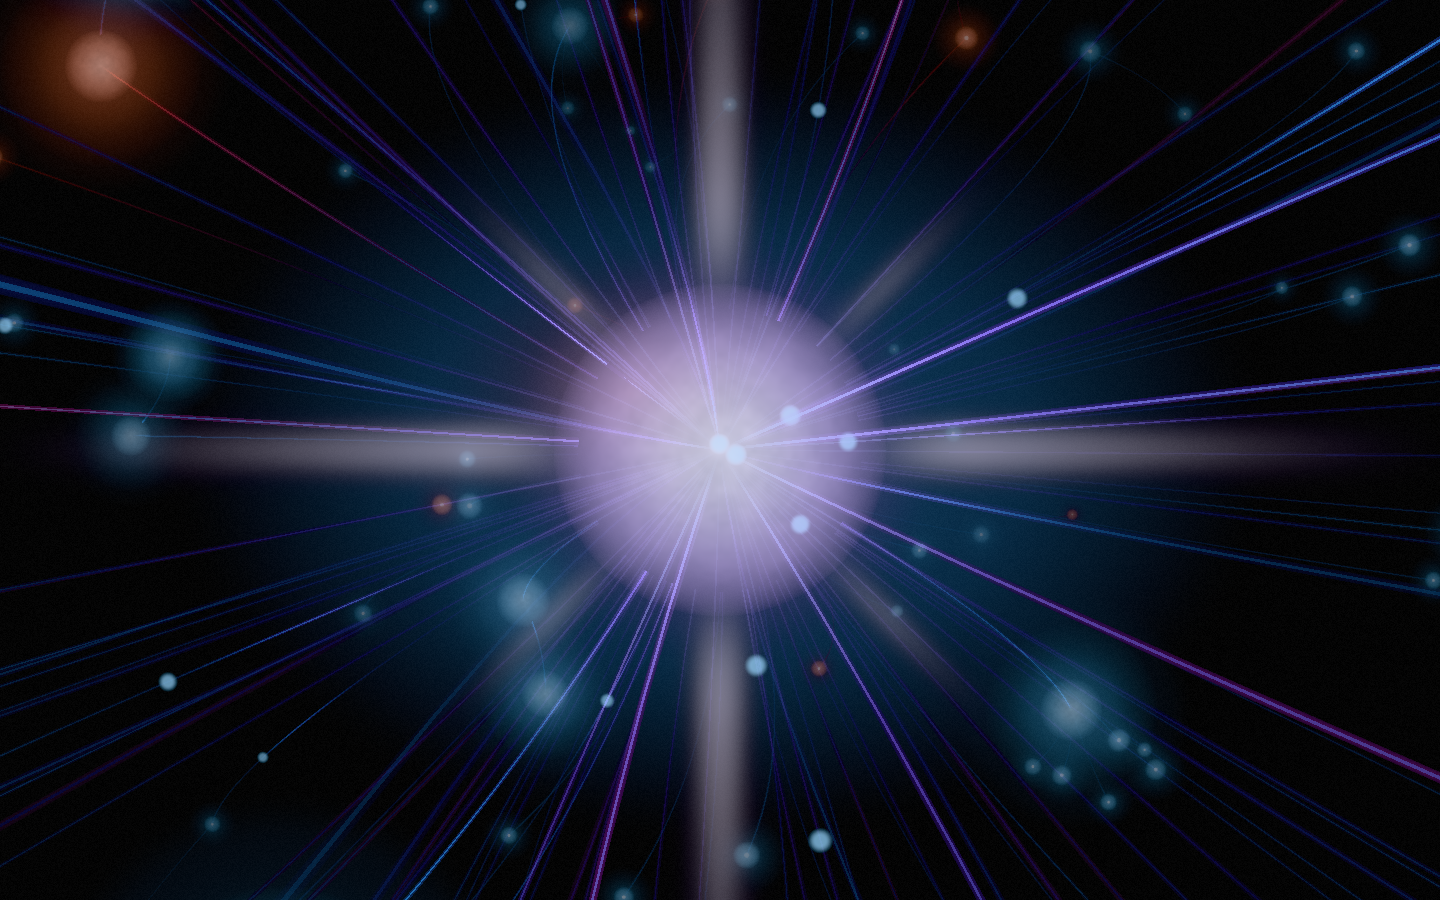
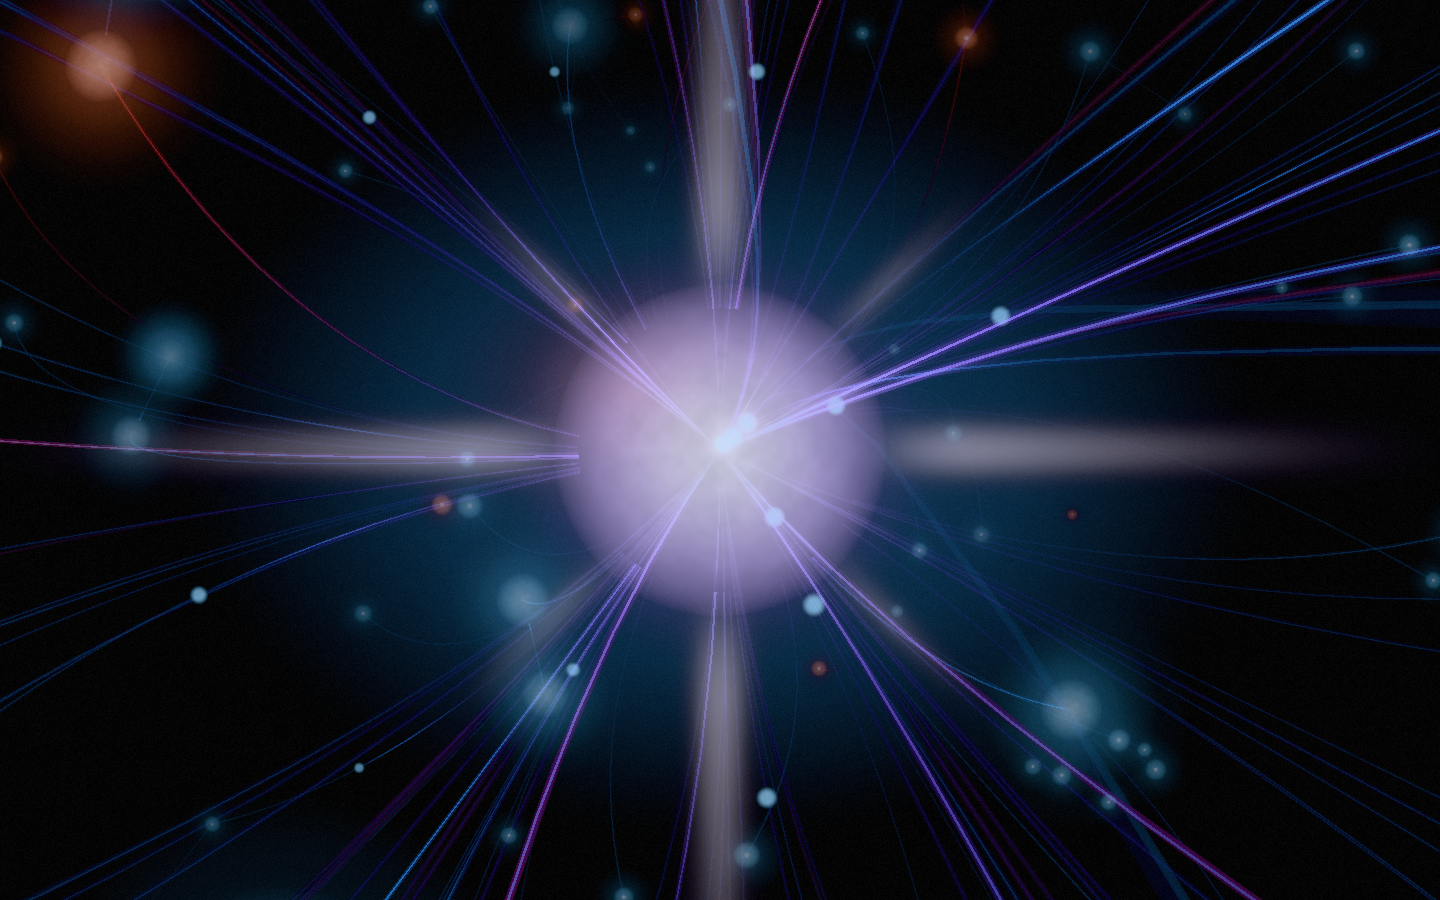
Neural scene: trunk grouping - spokes leave a parent as trunks
User direction 2026-09-21, moved ahead of the rest of the review because
of the scale question: at thousands of shouts the spokes, not occlusion,
fill the centre. Each parent's children are clustered by direction into
trunks (greedy within bundleCone, one refinement pass; deterministic, the
layout hash holds) and each spoke's control point is pulled by
bundleStrength onto its trunk's ray at bundleBranch of the child's
distance, so siblings leave the parent along one line and peel off toward
their children - a trunk that splits, not a firework. Strength 0 is the
individual bend. Endpoints, one trail per node, the momentum band, the
body fade and the pulses are unchanged.

Decisions in docs/DECISIONS.md ("Trunk grouping"), log in
docs/PORT_LOG.md. Tests 263 (+4); tsc + oxlint clean; verify-neural 7/7
(60 fps, white-clip 0.00%, 7x median 13.2/255); gate shots refreshed.

diff --git a/src/neural/trails.ts b/src/neural/trails.ts
@@ -53,6 +53,61 @@ const UP = new Vector3(0, 1, 0)
 const FALLBACK = new Vector3(1, 0, 0)
 
 /**
+ * Trunk grouping: cluster unit directions into trunks. Greedy in input
+ * order - each direction joins the trunk whose running mean lies within
+ * `coneDeg` of it (the closest such), else starts one - then one refinement
+ * pass re-assigns every direction to its nearest final mean and re-means.
+ * Deterministic: the same input gives the same trunks, so the layout hash
+ * holds. Returns each direction's trunk and the trunks' unit means.
+ */
+export function clusterDirections(
+  dirs: readonly Vector3[],
+  coneDeg: number,
+): { assignment: number[]; means: Vector3[] } {
+  const cosCone = Math.cos((coneDeg * Math.PI) / 180)
+  const means: Vector3[] = []
+  const sums: Vector3[] = []
+  const assignment: number[] = []
+  for (const d of dirs) {
+    let best = -1
+    let bestDot = cosCone
+    for (let t = 0; t < means.length; t++) {
+      const dot = means[t].dot(d)
+      if (dot >= bestDot) {
+        bestDot = dot
+        best = t
+      }
+    }
+    if (best < 0) {
+      best = means.length
+      means.push(d.clone())
+      sums.push(new Vector3())
+    }
+    sums[best].add(d)
+    means[best].copy(sums[best]).normalize()
+    assignment.push(best)
+  }
+  const refined = means.map(() => new Vector3())
+  for (let i = 0; i < dirs.length; i++) {
+    let best = assignment[i]
+    let bestDot = -2
+    for (let t = 0; t < means.length; t++) {
+      const dot = means[t].dot(dirs[i])
+      if (dot > bestDot) {
+        bestDot = dot
+        best = t
+      }
+    }
+    assignment[i] = best
+    refined[best].add(dirs[i])
+  }
+  for (let t = 0; t < means.length; t++) {
+    if (refined[t].lengthSq() > 1e-9) means[t].copy(refined[t]).normalize()
+  }
+  return { assignment, means }
+}
+
+/**
  * Pure geometry plan for every trail - exactly one per non-brain node.
  * `diamOf` gives each node's sprite diameter so trails end on the disc
  * surface; sizes are the rallies channel now, so the default (tier table) is
@@ -68,6 +123,25 @@ export function buildTrailSpecs(
   const byName = new Map(nodes.map((n) => [n.name, n]))
   const positions = new Map(nodes.map((n) => [n.name, new Vector3(...nodePosition(n))]))
   const specs: TrailSpec[] = []
+
+  // Trunk grouping (trail.bundle*): each parent's children, clustered by
+  // direction, give every child the unit direction of its trunk.
+  const trunks = new Map<string, Vector3>()
+  if (cfg.trail.bundleStrength > 0) {
+    const children = new Map<string, NeuralNode[]>()
+    for (const n of nodes) {
+      if (!n.parentName || !byName.has(n.parentName)) continue
+      const list = children.get(n.parentName) ?? []
+      list.push(n)
+      children.set(n.parentName, list)
+    }
+    for (const [parentName, kids] of children) {
+      const pPos = positions.get(parentName) as Vector3
+      const dirs = kids.map((k) => (positions.get(k.name) as Vector3).clone().sub(pPos).normalize())
+      const { assignment, means } = clusterDirections(dirs, cfg.trail.bundleCone)
+      kids.forEach((k, i) => trunks.set(k.name, means[assignment[i]]))
+    }
+  }
 
   for (const n of nodes) {
     if (!n.parentName) continue
@@ -95,6 +169,14 @@ export function buildTrailSpecs(
     if (perp.lengthSq() < 0.01) perp.crossVectors(chord, FALLBACK).normalize()
     const sign = Math.sin(n.phi * 7.3 + n.theta) > 0 ? 1 : -1
     const ctrl = mid.addScaledVector(perp, chordLen * cfg.trail.bendFraction * sign)
+    // Trunk grouping: the control point pulled onto the trunk's ray at
+    // bundleBranch of the child's distance, so the quadratic leaves the
+    // parent along the trunk (every sibling in the trunk shares that
+    // tangent, and near the parent the same line) and peels off toward the
+    // child. A trunk of one puts the control on its own chord: a straight
+    // string. Strength 0 keeps the individual bend above.
+    const trunkDir = trunks.get(n.name)
+    if (trunkDir) ctrl.lerp(pPos.clone().addScaledVector(trunkDir, cfg.trail.bundleBranch * dist), cfg.trail.bundleStrength)
 
     // traction weight: a popular post's spoke is full; a minor one a hairline.
     // Quadratic in t so the median post (t ~ 0.2) sits near the floor.

diff --git a/tests/trails.test.ts b/tests/trails.test.ts
@@ -5,6 +5,7 @@ import { buildGraph, nodePosition } from '../src/neural/graph'
 import { PAL, TRAIL_BASE, TRAIL_HOT } from '../src/neural/palette'
 import {
   buildTrailSpecs,
+  clusterDirections,
   coreColorAt,
   glowColorAt,
   taperRadius,
@@ -63,10 +64,11 @@ describe('trail topology (P3 machine gate)', () => {
     }
   })
 
-  it('bend sign is deterministic from the child φ/θ', () => {
+  it('bend sign is deterministic from the child φ/θ (the individual bend: bundling off)', () => {
     const byName = new Map(nodes.map((n) => [n.name, n]))
     const UP = new Vector3(0, 1, 0)
-    for (const s of specs.slice(0, 60)) {
+    const unbundled = buildTrailSpecs(nodes, { ...NCONF, trail: { ...NCONF.trail, bundleStrength: 0 } })
+    for (const s of unbundled.slice(0, 60)) {
       const child = byName.get(s.childName)
       if (!child) throw new Error('missing child')
       const expected = Math.sin(child.phi * 7.3 + child.theta) > 0 ? 1 : -1
@@ -121,5 +123,51 @@ describe('vertex color program (§4.3, exact)', () => {
     expect(g.r).toBeCloseTo(expected.r, 9)
     expect(g.g).toBeCloseTo(expected.g, 9)
     expect(g.b).toBeCloseTo(expected.b, 9)
+  })
+})
+
+describe('trunk grouping (2026-09-21): spokes leave a parent as trunks', () => {
+  const byName = new Map(nodes.map((n) => [n.name, n]))
+  const pos = (name: string) => new Vector3(...nodePosition(byName.get(name)!))
+  const tangent = (s: { ctrl: Vector3; pSurf: Vector3 }) => s.ctrl.clone().sub(s.pSurf).normalize()
+  const withStrength = (bundleStrength: number) =>
+    buildTrailSpecs(nodes, { ...NCONF, trail: { ...NCONF.trail, bundleStrength } })
+
+  it('clusterDirections: within the cone share a trunk, outside it start one; deterministic', () => {
+    const d = (deg: number) => new Vector3(Math.cos((deg * Math.PI) / 180), Math.sin((deg * Math.PI) / 180), 0)
+    const dirs = [d(0), d(10), d(-12), d(90), d(100), d(200)]
+    const a = clusterDirections(dirs, 40)
+    expect(a.assignment).toEqual([0, 0, 0, 1, 1, 2])
+    expect(a.means).toHaveLength(3)
+    expect(a.means[0].angleTo(d(-0.67))).toBeLessThan(0.01) // the mean of 0, 10, -12
+    expect(clusterDirections(dirs, 40).assignment).toEqual(a.assignment)
+  })
+
+  it('at strength 1 the brain\'s spokes leave along a few shared rays, each within its own cone', () => {
+    const hubSpokes = withStrength(1).filter((s) => s.parentTier === 'brain')
+    expect(hubSpokes.length).toBeGreaterThan(20)
+    const rays = new Set(hubSpokes.map((s) => tangent(s).toArray().map((v) => v.toFixed(4)).join(',')))
+    expect(rays.size).toBeLessThan(hubSpokes.length / 2)
+    for (const s of hubSpokes) {
+      const own = s.cSurf.clone().sub(s.pSurf).normalize()
+      expect(tangent(s).angleTo(own)).toBeLessThan((NCONF.trail.bundleCone * 1.5 * Math.PI) / 180)
+    }
+  })
+
+  it('strength 0 is the individual bend; the default control lies between it and the trunk ray', () => {
+    const off = withStrength(0)
+    const full = withStrength(1)
+    for (let i = 0; i < 40; i++) {
+      const expected = off[i].ctrl.clone().lerp(full[i].ctrl, NCONF.trail.bundleStrength)
+      expect(specs[i].ctrl.distanceTo(expected)).toBeLessThan(1e-6)
+    }
+  })
+
+  it('endpoints and the one-trail-per-node topology are untouched by bundling', () => {
+    for (const s of specs.slice(0, 40)) {
+      expect(s.pSurf.distanceTo(pos(s.parentName))).toBeLessThan(1e-6)
+      expect(s.cSurf.distanceTo(pos(s.childName))).toBeLessThan(1e-6)
+    }
+    expect(specs.length).toBe(nodes.length - 1)
   })
 })

diff --git a/src/neural/config.ts b/src/neural/config.ts
@@ -183,6 +183,16 @@ export interface NeuralConfig {
     filamentPow: number     // chord exponent: 1 = the cylinder, higher = a tighter core
     filamentGain: number    // brightness x under the profile (pi/4 of the ribbon's light at pow 1 -> 1.27 keeps it)
     filamentFromPx: number  // the profile fades in from this on-screen radius; under it, parity
+    // Trunk grouping (2026-09-21): a parent's children are clustered by
+    // direction (within bundleCone degrees) into trunks; each spoke's
+    // control point is pulled by bundleStrength onto its trunk's ray, at
+    // bundleBranch of the child's distance, so the spokes leave the parent
+    // as one trunk and peel off toward their children - dendrites, not a
+    // firework, and at thousands of shouts a few trunks at the brain
+    // instead of a solid cone. 0 = the individual bend (bendFraction).
+    bundleStrength: number
+    bundleCone: number      // degrees: siblings closer than this share a trunk
+    bundleBranch: number    // the trunk point, as a fraction of the child's distance
     radByTier: Record<NeuralTier, number>
     radDefault: number
     // Energy flow (visual pass): a soft band of brightness travelling along
@@ -356,6 +366,9 @@ export const NCONF: NeuralConfig = {
     filamentPow: 1.5,
     filamentGain: 1.5,
     filamentFromPx: 2,
+    bundleStrength: 0.9,
+    bundleCone: 40,
+    bundleBranch: 0.45,
     // brain 1.8 -> 1.2: with 160 spokes the P0 thickness (sized for 20) is
     // the starburst; a popular post's spoke is still the thickest line drawn.
     radByTier: { brain: 1.2, hub: 1.1, node: 0.65, sub: 0.35, terminal: 0.3 },

diff --git a/src/neural/NeuralScene.tsx b/src/neural/NeuralScene.tsx
@@ -613,6 +613,10 @@ export function NeuralScene({ bus }: { bus: InputBus }) {
     filamentPow: slider(() => NCONF.trail.filamentPow, (v) => { NCONF.trail.filamentPow = v }, 0.5, 4, 0.05),
     filamentGain: slider(() => NCONF.trail.filamentGain, (v) => { NCONF.trail.filamentGain = v }, 0.5, 3, 0.05),
     filamentFromPx: slider(() => NCONF.trail.filamentFromPx, (v) => { NCONF.trail.filamentFromPx = v }, 0.5, 10, 0.25),
+    // trunk grouping is baked into the geometry: these rebuild
+    bundleStrength: rebuildSlider(() => NCONF.trail.bundleStrength, (v) => { NCONF.trail.bundleStrength = v }, 0, 1, 0.05),
+    bundleCone: rebuildSlider(() => NCONF.trail.bundleCone, (v) => { NCONF.trail.bundleCone = v }, 5, 90, 1),
+    bundleBranch: rebuildSlider(() => NCONF.trail.bundleBranch, (v) => { NCONF.trail.bundleBranch = v }, 0.1, 0.9, 0.05),
   })
 
   const environment = useMemo(() => {

diff --git a/docs/DECISIONS.md b/docs/DECISIONS.md
@@ -1388,3 +1388,36 @@ user asked whether occlusion would hide nodes at thousands of shouts.
 - Still open from the review: trunk grouping (5) - at thousands of nodes
   the spokes, not occlusion, are what fills the centre; the backdrop and
   dust (7); the bokeh fog at 3x.
+
+## Trunk grouping (2026-09-21, user direction)
+Brief (user): "continue" after the review's fix 5, moved ahead of the
+rest because of the user's scale question: at thousands of shouts the
+spokes, not occlusion, are what fills the centre - 47 straight rays into
+the brain already read as a firework.
+- **The rule** (trails.ts `clusterDirections`): each parent's children
+  are clustered by direction into trunks - greedy in node order, a child
+  joins the trunk whose running mean lies within `bundleCone` (40 deg) of
+  it, else starts one; one refinement pass re-assigns to the nearest mean
+  and re-means. Deterministic, so the layout hash holds (d29411df).
+- **The curve**: the quadratic's control point is pulled by
+  `bundleStrength` (0.9) onto the trunk's ray at `bundleBranch` (0.45) of
+  the child's distance. Every sibling in a trunk then leaves the parent
+  with the same tangent - and, near the parent, along the same line - and
+  peels off toward its own child: a trunk that splits, dendrites. A trunk
+  of one puts the control on its own chord: a straight string. Strength 0
+  is the individual bend (bendFraction), which the old test now pins with
+  bundling off.
+- Endpoints, one trail per node, the momentum band, the body fade and the
+  pulses (they read the control point in their vertex shader) are all
+  unchanged. Where a trunk's tubes overlap near the parent the additive
+  light makes it brighter and wider - the trunk carrying more.
+- Applied at every level (brain -> hubs, hub -> nodes, ...): with 4-5
+  children a hub's fan usually becomes one or two trunks. At scale the
+  cone is the lever: a wider cone, fewer trunks.
+- Tests 263 (+4: the clustering, shared rays at strength 1, the default
+  between bend and trunk, endpoints untouched). Gate 7/7: 60 fps,
+  white-clip 0.00%, 7x median 13.2/255.
+- Still open from the review: the backdrop and dust (7); the bokeh fog at
+  3x. A next step for scale: bundling at the trunk point too (a cubic
+  with two trunk controls), so the shared section is a real line rather
+  than a tangent.

diff --git a/docs/PORT_LOG.md b/docs/PORT_LOG.md
@@ -1063,3 +1063,17 @@ Decisions: docs/DECISIONS.md ("Scoped occlusion").
 - Tests 259. tsc + oxlint clean.
 - Gate `scripts/verify-neural.mjs`: 7/7 - 60 fps, scene draws 9 (bound
   9), white-clip 0.00%, 7x median 12.5/255. Shots refreshed.
+
+# Trunk grouping (2026-09-21)
+
+Decisions: docs/DECISIONS.md ("Trunk grouping").
+- `trails.ts`: `clusterDirections` (exported) + the trunk map in
+  `buildTrailSpecs`; the control point lerps from the individual bend to
+  the trunk point. `config.ts`: trail.bundleStrength / bundleCone /
+  bundleBranch. `NeuralScene.tsx`: rebuild sliders under 'neural line'.
+- `tests/trails.test.ts`: the bend test runs with bundleStrength 0; a new
+  block for the clustering, the shared rays, the strength lerp and the
+  endpoints. Tests 263. tsc + oxlint clean.
+- Gate `scripts/verify-neural.mjs`: 7/7 - 60 fps, scene draws 9,
+  white-clip 0.00%, 7x median 13.2/255, layout hash d29411df unchanged.
+  Shots refreshed.
